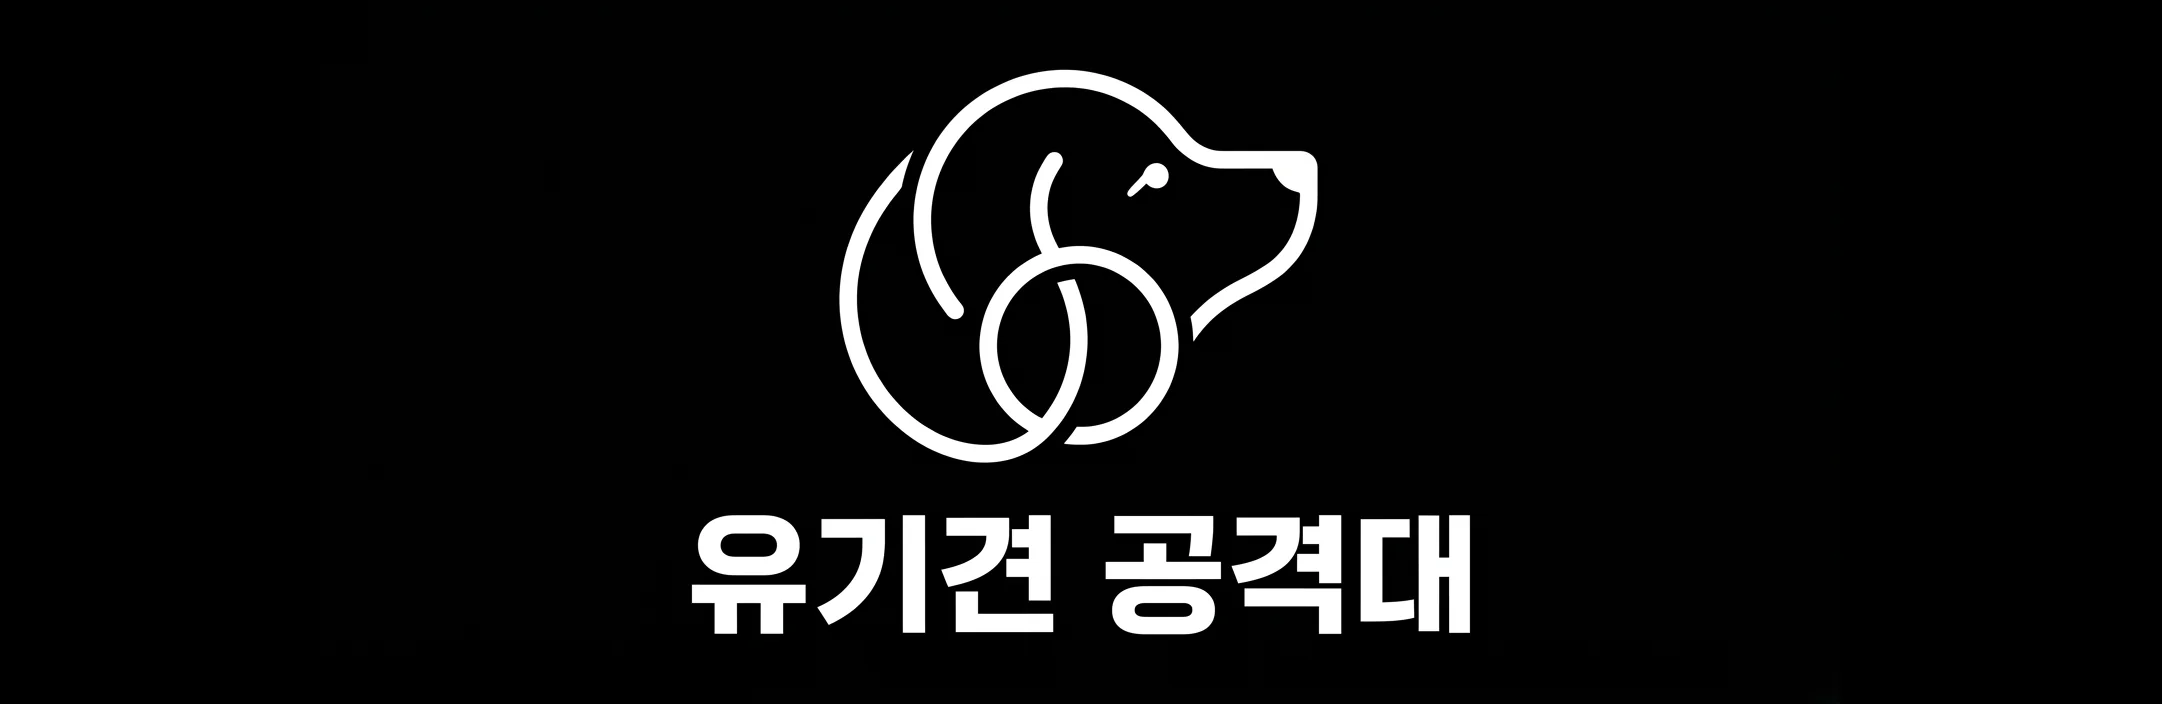
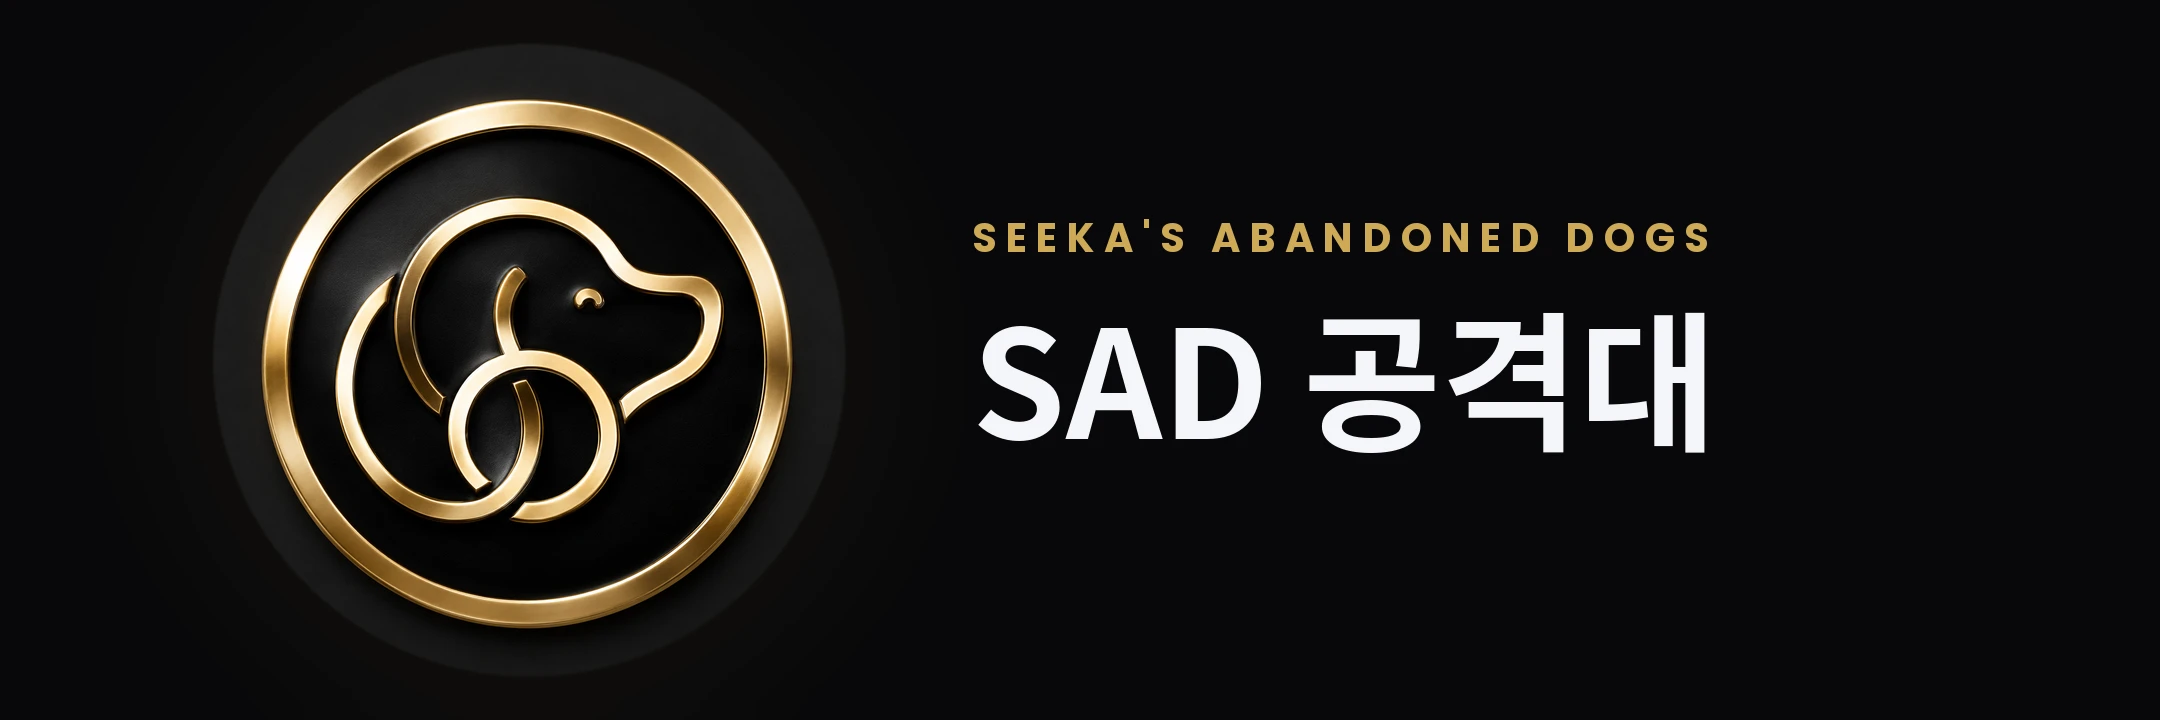
1

Changed region(s): [[0.0931, 0.0625, 0.8065, 0.9062]]

diff --git a/index.html b/index.html
@@ -360,15 +360,15 @@
         <div class="mt-1 text-[10px] md:text-xs text-white/50 font-bold uppercase tracking-[0.2em]">World of Warcraft KR · Azshara</div>
       </div>
       <div class="mt-3 w-full max-w-[360px] mx-auto flex gap-2">
-        <a id="addon-download-link" href="https://github.com/woojehong/hoojestudio/releases/download/hoojestudio1.4/HoojeStudio.zip"
-           class="flex-1 inline-flex items-center justify-center gap-1.5 px-2.5 py-2.5 rounded-xl font-black text-[11px] md:text-xs tracking-tight transition-all bg-gradient-to-r from-amber-500/20 to-yellow-400/10 border border-amber-400/50 hover:border-amber-300/80 text-amber-200 hover:text-white">
-          <svg class="w-4 h-4 shrink-0" fill="none" stroke="currentColor" stroke-width="2.5" viewBox="0 0 24 24"><path stroke-linecap="round" stroke-linejoin="round" d="M4 16v2a2 2 0 002 2h12a2 2 0 002-2v-2M7 10l5 5 5-5M12 15V3"/></svg>
-          <span class="whitespace-nowrap">애드온 직접 다운로드</span>
-        </a>
         <a href="https://www.curseforge.com/wow/addons/hoojestudio" target="_blank" rel="noopener"
            class="flex-1 inline-flex items-center justify-center gap-1.5 px-2.5 py-2.5 rounded-xl font-black text-[11px] md:text-xs tracking-tight transition-all bg-gray-950 border border-orange-500/55 text-orange-300 hover:text-white hover:border-orange-400 hover:bg-orange-500/10">
           <img src="assets/curseforge.png" alt="CurseForge" class="w-4 h-4 shrink-0 object-contain">
           <span class="whitespace-nowrap">커스포지에서 다운로드</span>
+        </a>
+        <a id="addon-download-link" href="https://github.com/woojehong/hoojestudio/releases/download/hoojestudio1.4/HoojeStudio.zip"
+           class="flex-1 inline-flex items-center justify-center gap-1.5 px-2.5 py-2.5 rounded-xl font-black text-[11px] md:text-xs tracking-tight transition-all bg-gradient-to-r from-amber-500/20 to-yellow-400/10 border border-amber-400/50 hover:border-amber-300/80 text-amber-200 hover:text-white">
+          <svg class="w-4 h-4 shrink-0" fill="none" stroke="currentColor" stroke-width="2.5" viewBox="0 0 24 24"><path stroke-linecap="round" stroke-linejoin="round" d="M4 16v2a2 2 0 002 2h12a2 2 0 002-2v-2M7 10l5 5 5-5M12 15V3"/></svg>
+          <span class="whitespace-nowrap">애드온 직접 다운로드</span>
         </a>
       </div>
     </div>
@@ -482,8 +482,8 @@
     </a>
 
     <!-- 유기견 공격대 — 은빛 glow -->
-    <a href="https://abandoneddogs.netlify.app/" target="_blank" class="block w-full overflow-hidden rounded-xl md:rounded-2xl border border-gray-400/30 transition-all group aspect-[3/1] ugdog-pulse">
-      <img src="assets/sad_banner.webp" alt="유기견 공격대" class="w-full h-full object-cover">
+    <a href="https://woojehong.github.io/TeamSAD/" target="_blank" class="block w-full overflow-hidden rounded-xl md:rounded-2xl border border-gray-400/30 transition-all group aspect-[3/1] ugdog-pulse">
+      <img src="assets/sad_banner.webp?v=260628" alt="유기견 공격대" class="w-full h-full object-cover">
     </a>
 
     <!-- 후제공방 — 흑마법사 퍼플 glow -->
@@ -546,15 +546,15 @@
                 다운로드는 <span class="text-[#8788EE] font-bold">CurseForge</span>에서 <span class="text-[#8788EE] font-bold">Hooje</span> 검색, 또는 아래 버튼을 눌러주세요.
               </p>
               <div class="mt-4 w-full max-w-[360px] flex gap-2">
-                <a id="addon-download-link-2" href="https://github.com/woojehong/hoojestudio/releases/download/hoojestudio1.4/HoojeStudio.zip"
-                   class="flex-1 inline-flex items-center justify-center gap-1.5 px-2.5 py-2.5 rounded-xl font-black text-[11px] md:text-xs tracking-tight transition-all bg-gradient-to-r from-amber-500/20 to-yellow-400/10 border border-amber-400/50 hover:border-amber-300/80 text-amber-200 hover:text-white">
-                  <svg class="w-4 h-4 shrink-0" fill="none" stroke="currentColor" stroke-width="2.5" viewBox="0 0 24 24"><path stroke-linecap="round" stroke-linejoin="round" d="M4 16v2a2 2 0 002 2h12a2 2 0 002-2v-2M7 10l5 5 5-5M12 15V3"/></svg>
-                  <span class="whitespace-nowrap">애드온 직접 다운로드</span>
-                </a>
                 <a href="https://www.curseforge.com/wow/addons/hoojestudio" target="_blank" rel="noopener"
                    class="flex-1 inline-flex items-center justify-center gap-1.5 px-2.5 py-2.5 rounded-xl font-black text-[11px] md:text-xs tracking-tight transition-all bg-gray-950 border border-orange-500/55 text-orange-300 hover:text-white hover:border-orange-400 hover:bg-orange-500/10">
                   <img src="assets/curseforge.png" alt="CurseForge" class="w-4 h-4 shrink-0 object-contain">
                   <span class="whitespace-nowrap">커스포지에서 다운로드</span>
+                </a>
+                <a id="addon-download-link-2" href="https://github.com/woojehong/hoojestudio/releases/download/hoojestudio1.4/HoojeStudio.zip"
+                   class="flex-1 inline-flex items-center justify-center gap-1.5 px-2.5 py-2.5 rounded-xl font-black text-[11px] md:text-xs tracking-tight transition-all bg-gradient-to-r from-amber-500/20 to-yellow-400/10 border border-amber-400/50 hover:border-amber-300/80 text-amber-200 hover:text-white">
+                  <svg class="w-4 h-4 shrink-0" fill="none" stroke="currentColor" stroke-width="2.5" viewBox="0 0 24 24"><path stroke-linecap="round" stroke-linejoin="round" d="M4 16v2a2 2 0 002 2h12a2 2 0 002-2v-2M7 10l5 5 5-5M12 15V3"/></svg>
+                  <span class="whitespace-nowrap">애드온 직접 다운로드</span>
                 </a>
               </div>
             </div>
@@ -1030,7 +1030,7 @@ import { initializeApp } from "https://www.gstatic.com/firebasejs/10.7.1/firebas
           pending:  { label: '대기', cls: 'text-red-300',   dot: '#f87171', pulse: true  },
           accepted: { label: '접수', cls: 'text-sky-300',   dot: '#38bdf8', pulse: false },
           done:     { label: '완료', cls: 'text-gray-400',  dot: '#9ca3af', pulse: false, check: true },
-          rejected: { label: '반려', cls: 'text-amber-300', dot: '#fbbf24', pulse: false },
+          rejected: { label: '반려', cls: 'text-yellow-400', dot: '#facc15', pulse: false },
         };
         const st = LO_ST[order.status] || LO_ST.pending;
         const dotHtml = st.check
@@ -1038,6 +1038,8 @@ import { initializeApp } from "https://www.gstatic.com/firebasejs/10.7.1/firebas
           : `<span class="inline-block w-1.5 h-1.5 rounded-full ${st.pulse ? 'lo-dot-pulse' : ''}" style="background:${st.dot};box-shadow:0 0 6px ${st.dot}aa;"></span>`;
         const statusHtml = `<span class="inline-flex items-center gap-1.5 pl-1.5 pr-2 py-0.5 rounded-full border border-white/10 bg-white/[0.03] text-[10px] md:text-[11px] font-black ${st.cls}">${dotHtml}${st.label}</span>`;
         const cColor = CLS_COLOR[order.crafter] || '#6B7280';
+        const isRej = order.status === 'rejected';
+        const cColorEff = isRej ? '#6b7280' : cColor;
         const dimCls = order.status === 'done' ? 'opacity-55' : '';
 
         const myOrders = getMyOrders();
@@ -1051,9 +1053,9 @@ import { initializeApp } from "https://www.gstatic.com/firebasejs/10.7.1/firebas
           <div class="flex flex-col shrink-0">
             <div class="lo-card relative flex items-center gap-2 pl-2 pr-2.5 py-1.5 rounded-xl border border-white/[0.08] bg-gradient-to-b from-white/[0.05] to-white/[0.01] shadow-[0_2px_8px_rgba(0,0,0,0.35)] ${dimCls}">
               ${myBadge}
-              <span class="w-[3px] self-stretch rounded-full shrink-0" style="background:${cColor};"></span>
+              <span class="w-[3px] self-stretch rounded-full shrink-0" style="background:${cColorEff};"></span>
               <span class="text-[11px] md:text-xs font-bold text-gray-500 tabular-nums">${timeStr}</span>
-              <span class="text-[11px] md:text-xs font-bold text-white truncate max-w-[120px] md:max-w-[150px]">${escapeHTML((order.itemName.match(/^\[[^\]]*\]/)||[order.itemName])[0])}</span>
+              <span class="text-[11px] md:text-xs font-bold ${isRej ? 'text-gray-500' : 'text-white'} truncate max-w-[120px] md:max-w-[150px]">${escapeHTML((order.itemName.match(/^\[[^\]]*\]/)||[order.itemName])[0])}</span>
               ${statusHtml}
             </div>
             ${bubbleHtml}

diff --git a/guide.html b/guide.html
@@ -132,13 +132,13 @@
             </p>
             <div class="w-full max-w-[360px] flex flex-col gap-2">
               <div class="flex gap-2">
-                <a href="https://github.com/woojehong/hoojestudio/releases/download/hoojestudio1.4/HoojeStudio.zip" class="flex-1 inline-flex items-center justify-center gap-1.5 px-2.5 py-2.5 rounded-xl font-black text-[11px] md:text-xs tracking-tight transition-all bg-gradient-to-r from-amber-500/20 to-yellow-400/10 border border-amber-400/50 text-amber-200 hover:text-white hover:border-amber-300/80">
-                  <svg class="w-4 h-4 shrink-0" fill="none" stroke="currentColor" stroke-width="2.4" viewBox="0 0 24 24"><path stroke-linecap="round" stroke-linejoin="round" d="M4 16v2a2 2 0 002 2h12a2 2 0 002-2v-2M7 10l5 5 5-5M12 15V3"/></svg>
-                  <span class="whitespace-nowrap">애드온 직접 다운로드</span>
-                </a>
                 <a href="https://www.curseforge.com/wow/addons/hoojestudio" target="_blank" rel="noopener" class="flex-1 inline-flex items-center justify-center gap-1.5 px-2.5 py-2.5 rounded-xl font-black text-[11px] md:text-xs tracking-tight transition-all bg-gray-950 border border-orange-500/55 text-orange-300 hover:text-white hover:border-orange-400 hover:bg-orange-500/10">
                   <img src="assets/curseforge.png" alt="CurseForge" class="w-4 h-4 shrink-0 object-contain">
                   <span class="whitespace-nowrap">커스포지에서 다운로드</span>
+                </a>
+                <a href="https://github.com/woojehong/hoojestudio/releases/download/hoojestudio1.4/HoojeStudio.zip" class="flex-1 inline-flex items-center justify-center gap-1.5 px-2.5 py-2.5 rounded-xl font-black text-[11px] md:text-xs tracking-tight transition-all bg-gradient-to-r from-amber-500/20 to-yellow-400/10 border border-amber-400/50 text-amber-200 hover:text-white hover:border-amber-300/80">
+                  <svg class="w-4 h-4 shrink-0" fill="none" stroke="currentColor" stroke-width="2.4" viewBox="0 0 24 24"><path stroke-linecap="round" stroke-linejoin="round" d="M4 16v2a2 2 0 002 2h12a2 2 0 002-2v-2M7 10l5 5 5-5M12 15V3"/></svg>
+                  <span class="whitespace-nowrap">애드온 직접 다운로드</span>
                 </a>
               </div>
               <a href="#addon-install" class="inline-flex items-center justify-center gap-1.5 px-2.5 py-2.5 rounded-xl font-black text-[11px] md:text-xs tracking-tight transition-all bg-[#8788EE]/12 border border-[#8788EE]/45 text-[#a9aaf7] hover:text-white hover:border-[#8788EE] hover:bg-[#8788EE]/20">